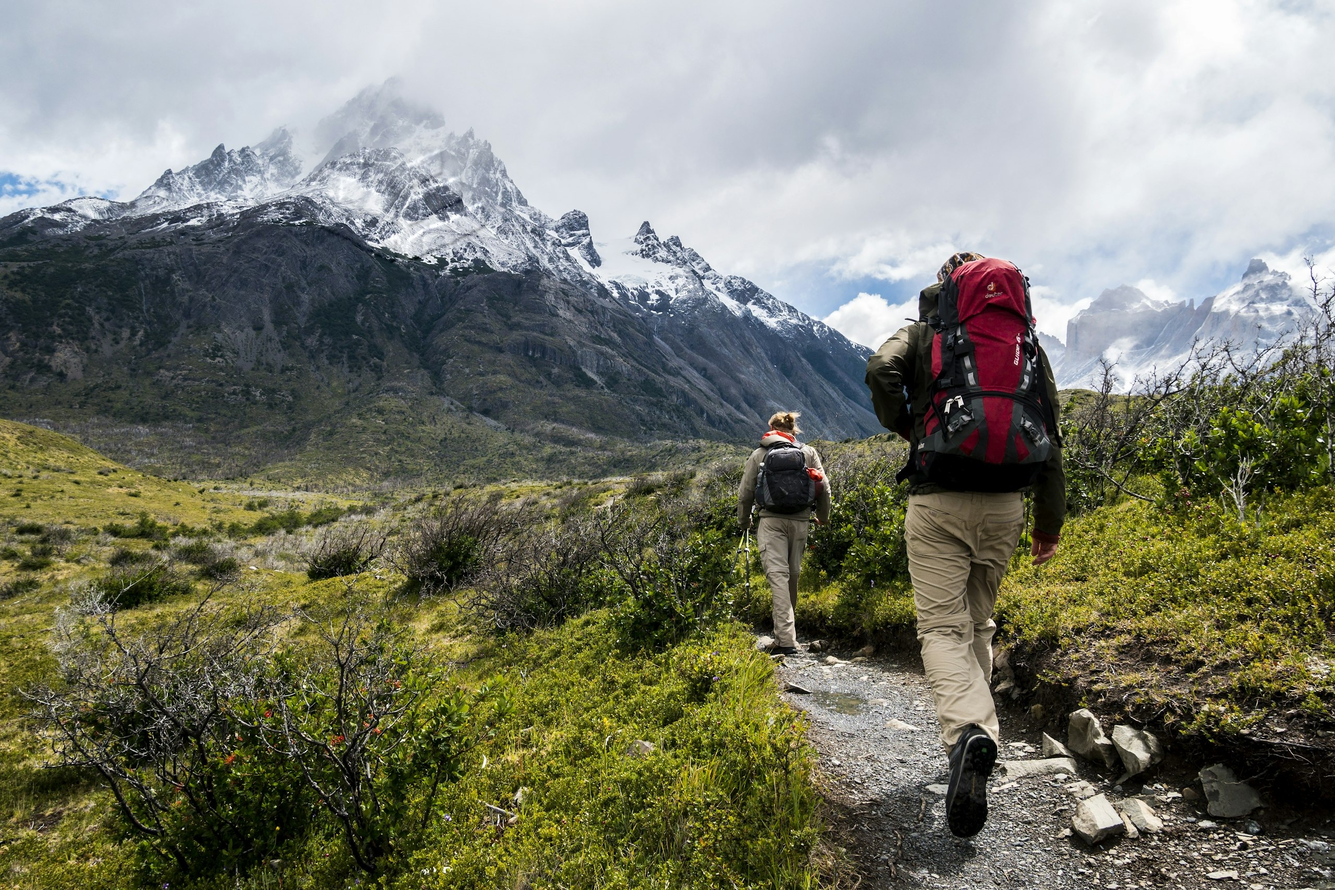
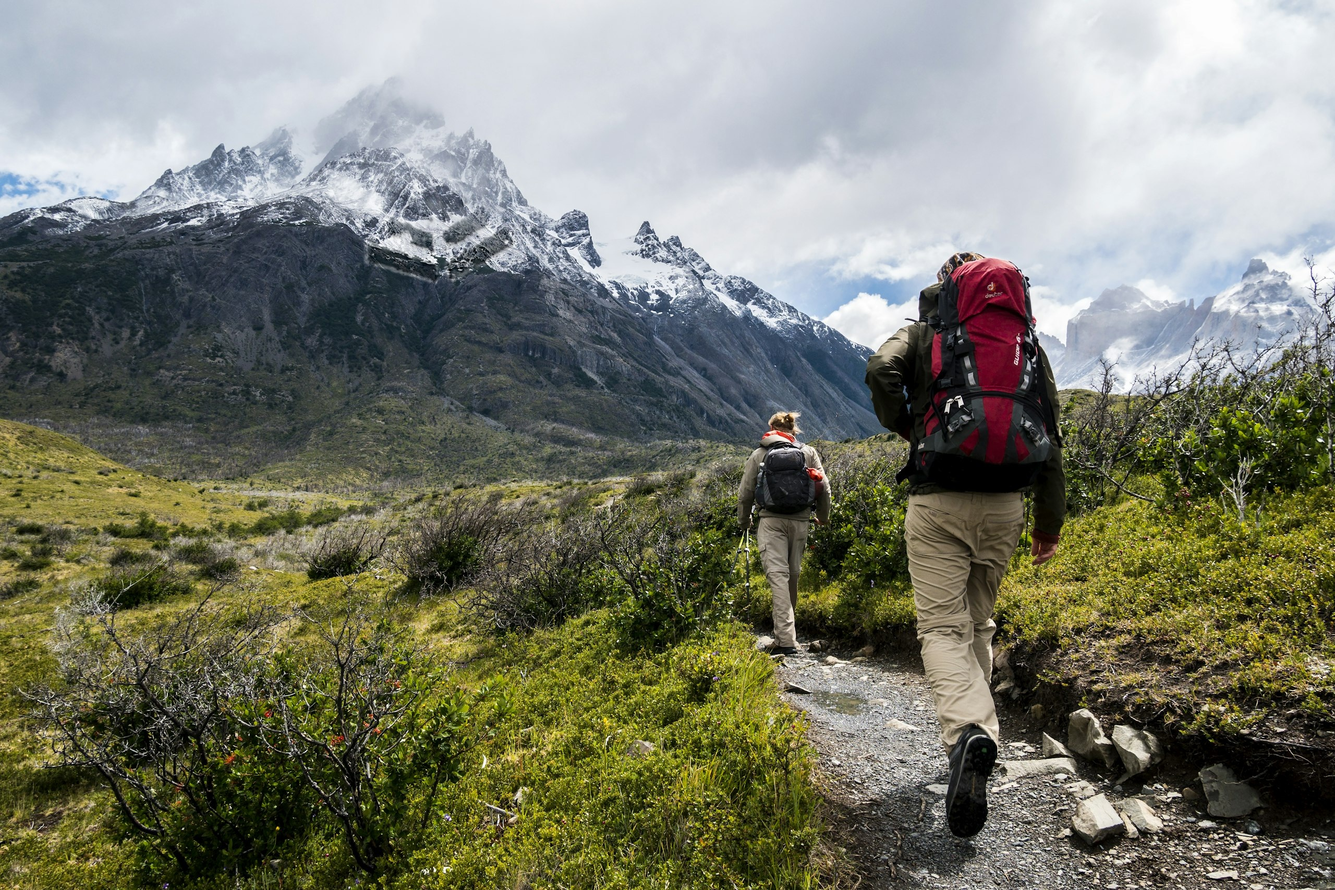
X header v5: mark hidden in the snow slope as rock bands and drifted snow
Built from the photo's own pixels (no overlay or tint): tiers are bare rock
borrowed from the cliff below, gaps fill with snow, edges erode and the
upper tier fades into mist.

Claude-Session: https://claude.ai/code/session_013SeK9HfBS5mTcQRqXyuLnD

Changed region(s): [[0.25, 0.1862, 0.4062, 0.3103]]

diff --git a/trailfi/brand/x-header-v5.html b/trailfi/brand/x-header-v5.html
@@ -12,8 +12,8 @@ body{width:1500px;height:500px;overflow:hidden;background:#060807;font-family:SG
   radial-gradient(80% 90% at 45% 45%,transparent 50%,rgba(4,10,7,.6) 100%)}
 .tint{position:absolute;inset:0;background:rgba(11,42,28,.18);mix-blend-mode:multiply}
 /* The mark glowing faintly in the rock, under the clouds */
-.mark-tint{position:absolute;inset:0;background:#c4fb6d;-webkit-mask-image:url(hero-trail-carved-mask.png);-webkit-mask-size:2246px auto;-webkit-mask-position:0 -18px;-webkit-mask-repeat:no-repeat;mix-blend-mode:overlay;opacity:.26}
-.mark-glow{position:absolute;inset:0;background:#c4fb6d;-webkit-mask-image:url(hero-trail-carved-mask.png);-webkit-mask-size:2246px auto;-webkit-mask-position:0 -18px;-webkit-mask-repeat:no-repeat;filter:blur(12px);opacity:.07}
+
+
 .glass{position:absolute;border-radius:24px;border:1px solid rgba(255,255,255,.12);background:rgba(10,13,11,.55);backdrop-filter:blur(18px) saturate(140%);box-shadow:0 1px 0 rgba(255,255,255,.06) inset,0 30px 60px -20px rgba(0,0,0,.7)}
 .label{font-family:JB;font-weight:500;font-size:10.5px;letter-spacing:2.4px;text-transform:uppercase;color:rgba(255,255,255,.5)}
 .dot{display:inline-block;width:7px;height:7px;border-radius:50%;background:#c4fb6d;box-shadow:0 0 12px rgba(196,251,109,.8);margin-right:8px;vertical-align:1px}
@@ -42,7 +42,7 @@ body{width:1500px;height:500px;overflow:hidden;background:#060807;font-family:SG
 .chip{right:376px;top:330px;padding:10px 14px 10px 10px;display:flex;align-items:center;gap:10px;border-radius:999px;font-size:13.5px;color:rgba(255,255,255,.85)}
 .chip b{width:26px;height:26px;border-radius:50%;background:rgba(196,251,109,.15);display:grid;place-items:center}
 </style></head><body>
-<div class="photo"></div><div class="tint"></div><div class="shade"></div><div class="mark-glow"></div><div class="mark-tint"></div>
+<div class="photo"></div><div class="tint"></div><div class="shade"></div>
 
 <div class="glass steps">
   <div class="label"><span class="dot"></span>Steps today</div>

diff --git a/trailfi/brand/carve-mark.py b/trailfi/brand/carve-mark.py
@@ -1,81 +1,131 @@
-"""Carve the Stepit mark into the mountain face of the hero photo, half hidden by cloud."""
+"""Hide the Stepit mark in the mountain photo as exposed rock, shadowed ledges and snow, half lost in fog.
+
+Works only on the photo's own pixels: the mark darkens snow towards the rock colour already in the scene,
+with patchy, eroded strength, snow caught on the upper lips of each ledge, and mist drifting over the top tier.
+"""
 import re, sys
 import numpy as np
 from PIL import Image, ImageDraw
 from scipy import ndimage as nd
 
 SRC, OUT = sys.argv[1], sys.argv[2]
-CX, CY, W = float(sys.argv[3]), float(sys.argv[4]), float(sys.argv[5])  # mark centre and width, in source pixels
-rng = np.random.default_rng(7)
+CX, CY, W = map(float, sys.argv[3:6])
+STRENGTH = float(sys.argv[6]) if len(sys.argv) > 6 else 0.4
+MIST = float(sys.argv[7]) if len(sys.argv) > 7 else 0.5
+DUST = float(sys.argv[10]) if len(sys.argv) > 10 else 0.75
+rng = np.random.default_rng(11)
 
 img = np.asarray(Image.open(SRC).convert("RGB")).astype(np.float32) / 255
 H_, W_ = img.shape[:2]
+yy, xx = np.mgrid[0:H_, 0:W_].astype(np.float32)
 
-# 1. The mark as a soft mask (rounded like the real logo).
+def fractal(scales, amps):
+    out = np.zeros((H_, W_), np.float32)
+    for s, a in zip(scales, amps):
+        n = nd.gaussian_filter(rng.standard_normal((H_, W_)).astype(np.float32), s)
+        out += a * n / (n.std() + 1e-6)
+    return out
+
+def smooth(e0, e1, x):
+    t = np.clip((x - e0) / (e1 - e0), 0, 1)
+    return t * t * (3 - 2 * t)
+
+# The mark, drawn with a little perspective: the face leans back, so upper tiers are narrower and squashed,
+# and the whole shape tilts with the slope.
 P = "M108.0 6.0L177.5 42.1L177.5 84.7L108.0 47.4ZM284.0 6.0L214.5 42.1L214.5 84.7L284.0 47.4ZM59.0 69.0L177.5 127.1L177.5 169.7L59.0 110.4ZM333.0 69.0L214.5 127.1L214.5 169.7L333.0 110.4ZM6.0 132.0L177.5 214.0L177.5 256.6L6.0 173.4ZM386.0 132.0L214.5 214.0L214.5 256.6L386.0 173.4Z"
 k = W / 392
-ox, oy = CX - 196 * k, CY - 131.5 * k
-SS = 4
-m = Image.new("L", (W_ * SS // 4, H_ * SS // 4), 0)  # same size, drawn directly
+tilt = np.deg2rad(-6)
+def place(x, y):
+    u, v = x - 196, y - 131.5
+    depth = 1 - 0.18 * (1 - y / 263)          # upper tiers further away
+    u, v = u * depth, v * 0.86
+    ru = u * np.cos(tilt) - v * np.sin(tilt)
+    rv = u * np.sin(tilt) + v * np.cos(tilt)
+    return CX + ru * k, CY + rv * k
 m = Image.new("L", (W_, H_), 0)
 d = ImageDraw.Draw(m)
 for poly in re.findall(r"M([^Z]+)Z", P):
     pts = [tuple(map(float, p.split())) for p in poly.replace("L", " L ").split(" L ")]
-    d.polygon([(ox + x * k, oy + y * k) for x, y in pts], fill=255)
+    d.polygon([place(x, y) for x, y in pts], fill=255)
 mask = np.asarray(m).astype(np.float32) / 255
-mask = nd.grey_dilation(mask, size=(max(1, int(12 * k)),) * 2)  # rounded corners like the stroke
+mask = nd.grey_dilation(mask, size=(max(1, int(10 * k)),) * 2)
 
-# 2. Rough, rocky edges: displace the mask with fractal noise.
-def fractal(shape, scales, amps):
-    out = np.zeros(shape, np.float32)
-    for s, a in zip(scales, amps):
-        n = rng.standard_normal(shape).astype(np.float32)
-        n = nd.gaussian_filter(n, s)
-        n /= n.std() + 1e-6
-        out += a * n
-    return out
-yy, xx = np.mgrid[0:H_, 0:W_].astype(np.float32)
-dx = fractal((H_, W_), [3, 9], [0.6, 1.2])
-dy = fractal((H_, W_), [3, 9], [0.6, 1.2])
+# Edges follow the terrain: warp by the photo's own structure plus fine noise, then erode irregularly.
+lum = img.mean(axis=2)
+slum = nd.gaussian_filter(lum, 3)
+gy, gx = np.gradient(slum)
+warp = 22.0
+dx = gx * warp + fractal([2, 7], [0.7, 1.6])
+dy = gy * warp + fractal([2, 7], [0.7, 1.6])
 mask = nd.map_coordinates(mask, [yy + dy, xx + dx], order=1)
-mask = nd.gaussian_filter(mask, 1.1)
+mask = nd.gaussian_filter(mask, 1.2)
+erosion = fractal([1.5, 5, 14], [0.4, 0.8, 1.0])
+mask = mask * smooth(-2.4, -0.6, erosion)          # bites taken out of the shape
 
-# 3. Carve: inside the mark the rock catches snow (brighter, keeps the photo's texture),
-#    and the edges get light from the upper left and shade on the lower right.
-lum = img.mean(axis=2, keepdims=True)
-detail = lum - nd.gaussian_filter(lum, (4, 4, 0))
-MODE = sys.argv[6] if len(sys.argv) > 6 else 'snow'
-if MODE == 'none':
-    snow = img
-elif MODE == 'rock':  # bare dark rock showing through the snow
-    snow = np.clip(img * 0.32 + 0.03 + detail * 2.0, 0, 1)
+# Strength varies: strongest where there is snow to expose rock through, patchy everywhere,
+# fading out upwards into the fog and at the outer ends of each tier.
+snowiness = smooth(0.35, 0.75, nd.gaussian_filter(lum, 2))
+patch = smooth(-1.2, 1.2, fractal([3, 10, 30], [0.4, 0.7, 1.0]))
+top = CY - 131.5 * k * 0.86
+fog_fade = smooth(top - 0.02 * W, top + 0.38 * W, yy)
+ends = np.exp(-(((xx - CX) / (W * 0.62)) ** 2))
+strength = STRENGTH * mask * (0.55 + 0.45 * snowiness) * (0.7 + 0.3 * patch) * (0.25 + 0.75 * fog_fade) * (0.55 + 0.45 * ends)
+
+# The mark reads as terrain: each tier is a snow-loaded ledge, and the gaps between them are dark rock crevices
+# in shadow. Crevices = a thin band just outside the ledges; ledges = the mark itself.
+rock_ref = nd.gaussian_filter(img, (25, 25, 0))
+detail = (lum - nd.gaussian_filter(lum, 3))[..., None]
+# Real rock texture borrowed from the dark cliff band below the slope, so crevices carry the photo's own rock and grain.
+ROCK_DY = float(sys.argv[8]) if len(sys.argv) > 8 else 160
+borrowed = np.stack([nd.map_coordinates(img[..., c], [np.clip(yy + ROCK_DY, 0, H_ - 1), xx], order=1) for c in range(3)], -1)
+rock = np.clip(np.minimum(np.minimum(img, borrowed * 0.85 + 0.01), rock_ref * 0.42 + borrowed * 0.12) + detail * 0.9, 0, 1)
+snow = np.clip(img + (0.9 - img) * 0.5 + detail * 1.2, 0, 1)
+wide = nd.grey_dilation(mask, size=(int(16 * k) | 1,) * 2)
+thin = nd.grey_dilation(mask, size=(int(7 * k) | 1,) * 2)
+width_noise = smooth(-0.8, 0.8, fractal([4, 12], [0.6, 1.0]))      # crevices widen and narrow
+ring = np.clip(thin + (wide - thin) * width_noise - mask, 0, 1)
+ring = nd.gaussian_filter(ring, 0.6) * smooth(-2.2, -0.6, fractal([1.5, 6], [0.6, 1.0]))  # broken here and there
+s_ring = strength_base = STRENGTH * ring * (0.55 + 0.45 * snowiness) * (0.6 + 0.4 * patch) * (0.2 + 0.8 * fog_fade) * (0.55 + 0.45 * ends)
+BARS = len(sys.argv) > 9 and sys.argv[9] == 'bars'
+TERRACE = len(sys.argv) > 9 and sys.argv[9] == 'terrace'
+if TERRACE:
+    # Tiers become bands of bare rock, gaps fill with snow: a contrast structure strong enough to read over busy terrain,
+    # blended partially so the photo's own texture and grain stay on top.
+    shape_fade = (0.25 + 0.75 * fog_fade) * (0.55 + 0.45 * ends) * (0.75 + 0.25 * patch)
+    dust = smooth(-0.3, 0.9, fractal([1.2, 3, 8], [0.5, 0.8, 0.6]) + (detail[..., 0] * 6))
+    a_bar = STRENGTH * mask * shape_fade * (1 - DUST * dust)
+    a_gap = STRENGTH * ring * shape_fade * 0.9
+    out = img + (rock - img) * a_bar[..., None]
+    out = out + (snow - out) * a_gap[..., None]
+elif BARS:
+    # Each tier is an outcrop of bare rock with snow dusted across it in streaks, like the bands on the face above.
+    dust = smooth(-0.3, 0.9, fractal([1.2, 3, 8], [0.5, 0.8, 0.6]) + (detail[..., 0] * 6))
+    s_bar = strength * (1 - DUST * dust)
+    out = img + (rock - img) * s_bar[..., None]
+    out = out + (snow - out) * (s_ring * 0.5)[..., None]  # snow drifted into the gaps between tiers
 else:
-    snow = np.clip(img + (0.84 - img) * 0.55 + detail * 2.4, 0, 1)
-patchy = np.clip(0.78 + 0.22 * fractal((H_, W_), [2, 6], [0.5, 1.0]) / 1.5, 0.45, 1)
-a = (mask * patchy)[..., None]
-out = img * (1 - a * 0.85) + snow * a * 0.85
-soft = nd.gaussian_filter(mask, 2.2)
-gy, gx = np.gradient(soft)
-light = -(gx * -0.6 + gy * -0.8)  # light from the upper left
-light = light / (np.abs(light).max() + 1e-6)
-if MODE == 'rock': light = -light * 0.6
-out = np.clip(out + light[..., None] * 0.22, 0, 1)
+    out = img + (rock - img) * s_ring[..., None]
+    out = out + (snow - out) * (strength * 0.45)[..., None]
 
-# 4. Clouds drifting across the top of the mark: fractal noise, densest over the upper bars.
-top = oy
-cloud = fractal((H_, W_), [6, 18, 48], [0.25, 0.5, 1.0])
-cloud = (cloud - cloud.min()) / (cloud.max() - cloud.min())
-cloud = np.clip((cloud - 0.35) * 1.9, 0, 1)
-ex = (xx - CX) / (W * 0.85)
-ey = (yy - (top + W * 0.08)) / (W * 0.26)
-band = np.exp(-(ex ** 2 + ey ** 2) * 1.6)
-alpha = np.clip(cloud * band * 1.7, 0, 0.95)[..., None]
-cloud_col = np.array([0.80, 0.82, 0.83], np.float32)
-out = out * (1 - alpha) + cloud_col * alpha
+# Snow caught on the upper lip of each ledge, and a soft shadow under it, lit from the upper left like the photo.
+soft = nd.gaussian_filter(mask, 2.5)
+sgy, sgx = np.gradient(soft)
+lip = np.clip(sgy * 0.9 + sgx * 0.35, 0, None)
+under = np.clip(-sgy * 0.9 - sgx * 0.35, 0, None)
+lip /= lip.max() + 1e-6
+under /= under.max() + 1e-6
+fade3 = (fog_fade * (0.5 + 0.5 * patch))[..., None]
+out = out + (np.array([0.9, 0.92, 0.93]) - out) * (lip[..., None] * 0.4 * STRENGTH * fade3)
+out = out * (1 - under[..., None] * 0.3 * STRENGTH * fade3)
 
-Image.fromarray((np.clip(out, 0, 1) * 255).astype(np.uint8)).save(OUT, quality=93)
-fade = np.clip((yy - top) / (W * 0.42), 0, 1) ** 1.4  # the upper bars sink into the cloud
-vis = np.clip(mask * fade * (1 - alpha[..., 0] * 0.6), 0, 1)
-rgba = np.zeros((H_, W_, 4), np.uint8); rgba[..., 3] = (vis * 255).astype(np.uint8)
-Image.fromarray(rgba, 'RGBA').save(OUT.rsplit('.', 1)[0] + '-mask.png')
-print("ok", OUT)
+# Mist drifting across the upper tier, from the photo's own cloud colour.
+cloud = fractal([5, 16, 45], [0.3, 0.6, 1.0])
+cloud = smooth(-0.3, 1.4, cloud)
+mist_band = np.exp(-(((xx - CX) / (W * 0.9)) ** 2 + ((yy - (top + 0.06 * W)) / (W * 0.2)) ** 2))
+mist_a = (cloud * mist_band * MIST)[..., None]
+mist_col = np.array([0.80, 0.82, 0.83], np.float32)
+out = out * (1 - mist_a) + mist_col * mist_a
+
+Image.fromarray((np.clip(out, 0, 1) * 255).astype(np.uint8)).save(OUT, quality=94)
+np.save(OUT + ".strength.npy", strength); np.save(OUT + ".mask.npy", mask)
+print("ok", float(strength.max()), float(mask.max()))
